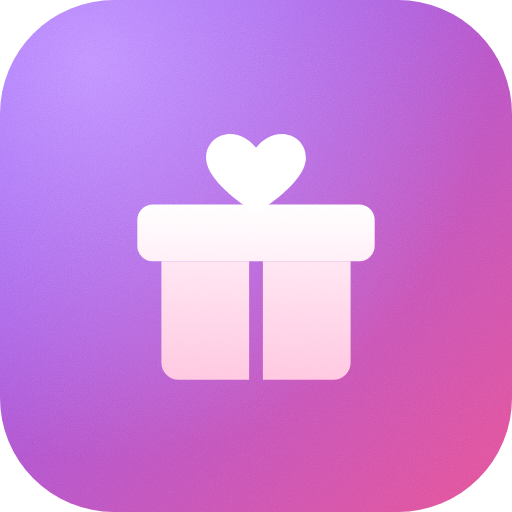
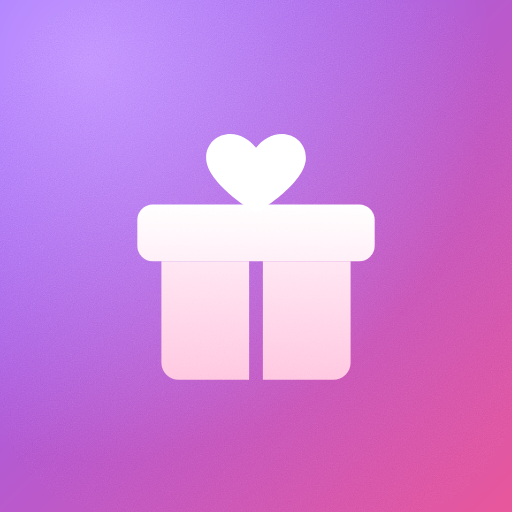
상태바 색을 배경색에 맞추고, 마스커블 아이콘을 정사각형으로 되돌리기
설치해서 켜보니 폰 위쪽 상태바가 보라색이었다. theme_color에 브랜드색을 넣어둔
탓인데, 브라우저 탭에서는 안 보이고 설치한 앱에서만 드러난다. 앱 배경과 색이
달라 띠가 하나 얹힌 것처럼 보여서 배경색과 같게 맞췄다. 테마를 바꾸면 같이
바뀌도록 시작 스크립트와 ThemeToggle 양쪽에서 다시 칠한다.

마스커블 아이콘은 412dd18에서 모서리를 굴리는 바람에 네 귀퉁이가 비어 있었다.
마스커블은 안드로이드가 직접 깎는 그림이라 가장자리까지 꽉 차 있어야 하는데,
비어 있으면 두 번 깎여 귀퉁이가 뜯긴다. 배경 그라디언트를 모서리까지 채웠다.
선물상자는 원래 안전영역(지름 80%) 안에 있어 그대로 뒀다.

아이콘 캐시 번호 v5.

Claude-Session: https://claude.ai/code/session_01ADf6XPRsYYV2AWf98Zh6ZM

diff --git a/client/index.html b/client/index.html
@@ -2,17 +2,21 @@
 <html lang="ko">
   <head>
     <meta charset="UTF-8" />
-    <link rel="icon" href="favicon.ico?v=4" sizes="any" />
-    <link rel="icon" href="icon.svg?v=4" type="image/svg+xml" />
-    <link rel="icon" href="icon-192.png?v=4" type="image/png" sizes="192x192" />
-    <link rel="apple-touch-icon" href="icon.png?v=4" />
+    <link rel="icon" href="favicon.ico?v=5" sizes="any" />
+    <link rel="icon" href="icon.svg?v=5" type="image/svg+xml" />
+    <link rel="icon" href="icon-192.png?v=5" type="image/png" sizes="192x192" />
+    <link rel="apple-touch-icon" href="icon.png?v=5" />
     <link rel="manifest" href="manifest.json" />
     <meta name="viewport" content="width=device-width, initial-scale=1, viewport-fit=cover, maximum-scale=1" />
     <!-- 크롬의 "웹사이트 자동 어둡게" 기능이 색을 뒤집지 않도록 라이트 전용임을 미리 알린다.
          값이 반드시 "only light"여야 한다. 그냥 "light"는 선호하는 색만 알려줄 뿐이라
          자동 어둡게가 그대로 적용된다. CSS보다 먼저 읽혀서 잠깐 어두워지는 것도 막아준다. -->
     <meta name="color-scheme" content="only light" />
-    <meta name="theme-color" content="#5B4FE8" />
+    <!-- 설치해서 쓰면 폰 위쪽 상태바(시계·배터리 자리)가 이 색으로 칠해진다.
+         브랜드색(보라)을 넣어두면 앱 배경과 따로 놀아 띠가 하나 얹힌 것처럼 보인다.
+         그래서 배경과 같은 색을 넣어 상태바가 화면에 이어지게 한다.
+         아래 스크립트가 테마에 맞춰 다시 칠한다. -->
+    <meta name="theme-color" content="#ffffff" />
     <title>모아콘</title>
     <meta name="description" content="가족·친구와 기프티콘을 모아서 함께 관리하는 사이트" />
     <script>
@@ -23,6 +27,8 @@
         var isDark = localStorage.getItem('theme') === 'dark';
         document.documentElement.dataset.theme = isDark ? 'dark' : 'light';
         document.querySelector('meta[name="color-scheme"]').content = isDark ? 'only dark' : 'only light';
+        // 상태바 색도 여기서 맞춘다. 값은 index.css의 --background와 같아야 한다.
+        document.querySelector('meta[name="theme-color"]').content = isDark ? '#121216' : '#ffffff';
       })();
 
       // 크롬은 페이지가 뜨자마자 설치 가능 여부를 판단해 beforeinstallprompt를 던진다.

diff --git a/client/src/components/ThemeToggle.jsx b/client/src/components/ThemeToggle.jsx
@@ -16,6 +16,10 @@ export default function ThemeToggle({ asRow = false }) {
     // "only"를 붙여야 브라우저가 임의로 색을 뒤집지 않는다.
     const meta = document.querySelector('meta[name="color-scheme"]');
     if (meta) meta.content = theme === 'dark' ? 'only dark' : 'only light';
+    // 설치해서 쓰면 폰 상태바가 이 색으로 칠해진다. 배경과 같게 두어야 이어져 보인다.
+    // 값은 index.css의 --background와 맞춘다.
+    const tint = document.querySelector('meta[name="theme-color"]');
+    if (tint) tint.content = theme === 'dark' ? '#121216' : '#ffffff';
     localStorage.setItem('theme', theme);
   }, [theme]);
 
